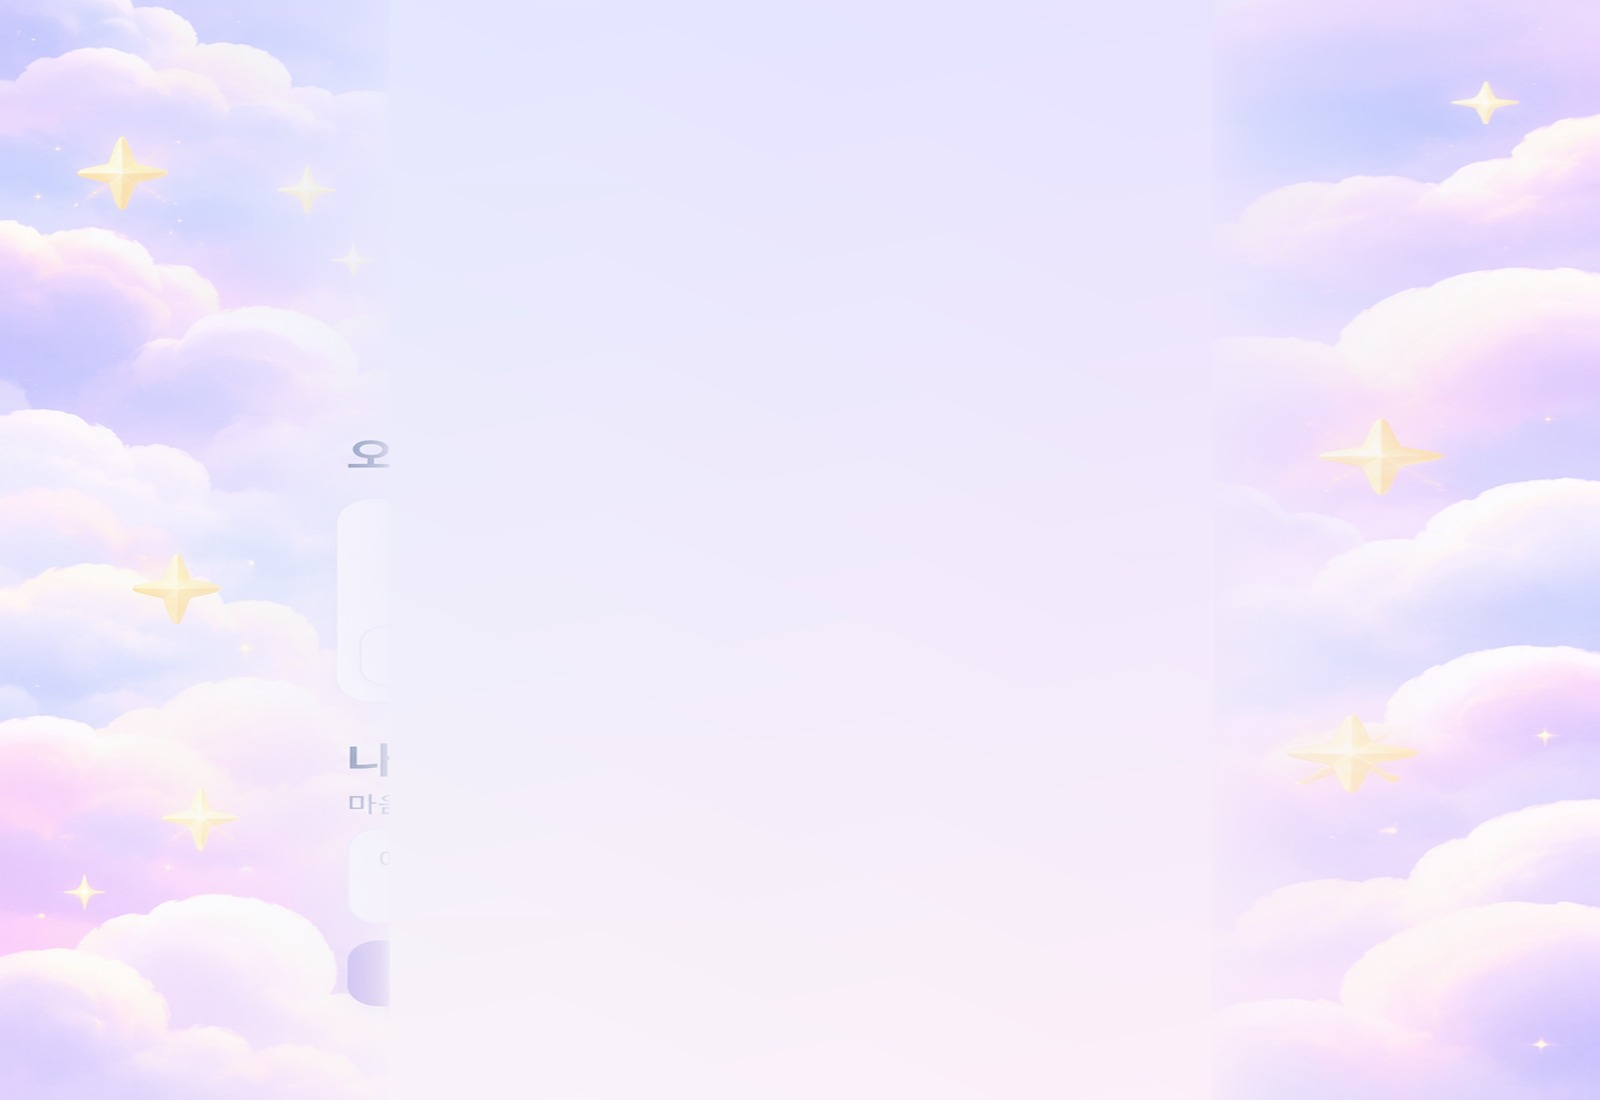
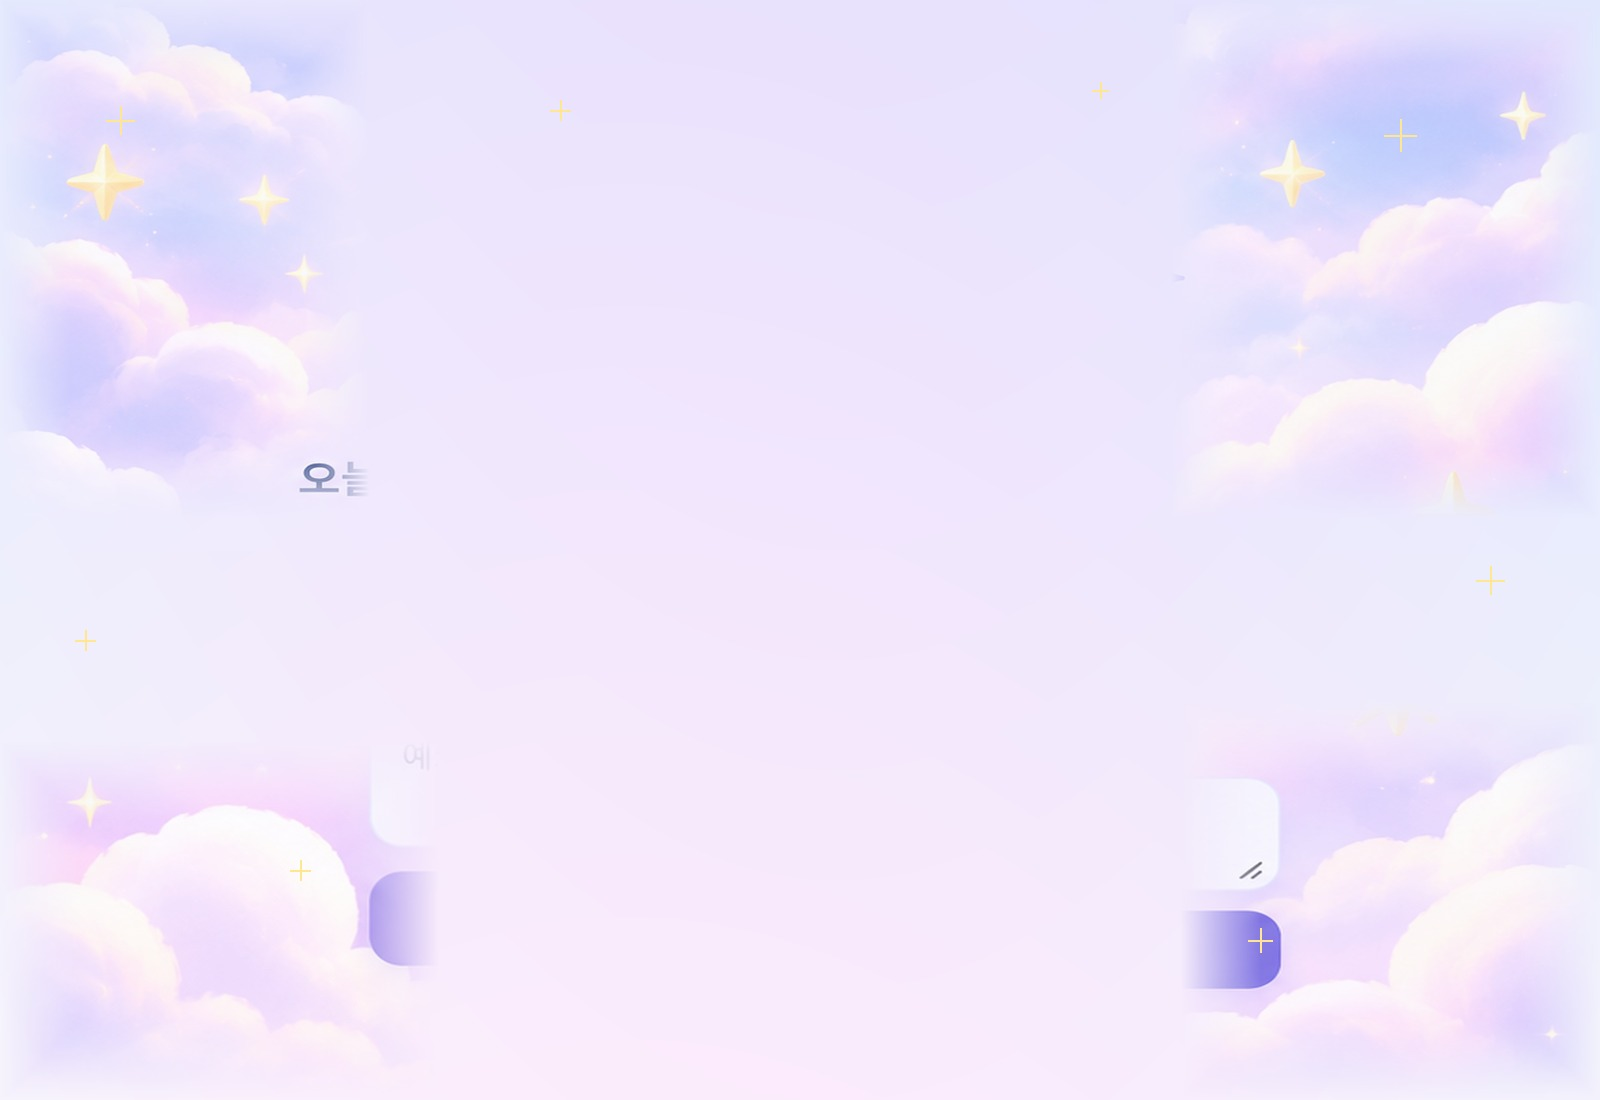
Add files via upload

diff --git a/app.py b/app.py
@@ -60,8 +60,8 @@ header[data-testid="stHeader"] {background:transparent!important;}
 .block-container > div {position:relative;z-index:1;}
 .hero-art {width:100%;max-width:1190px;position:relative;left:auto;transform:none;display:block;margin:0 auto 16px;overflow:hidden;}
 .hero-art img {display:block;width:100%;height:auto;border-radius:0;mask-image:linear-gradient(to bottom,transparent 0%,black 7%,black 88%,transparent 100%);-webkit-mask-image:linear-gradient(to bottom,transparent 0%,black 7%,black 88%,transparent 100%);}
-.hero {display:grid;grid-template-columns:47% 53%;align-items:center;max-width:1100px;margin:12px auto 28px;min-height:270px;}
-.hero-mascot {width:100%;max-width:390px;max-height:270px;object-fit:contain;justify-self:center;}
+.hero {display:grid;grid-template-columns:47% 53%;align-items:center;max-width:1100px;margin:0 auto 18px;min-height:290px;}
+.hero-mascot {width:100%;max-width:440px;max-height:310px;object-fit:contain;justify-self:center;}
 .hero-copy {text-align:left;padding-left:12px;}
 .hero h1 {font-size:clamp(2rem,4vw,3.8rem);color:#202e67;margin:0;font-weight:850;white-space:normal;line-height:1.2;}
 .hero p {color:#65749f;font-size:1.2rem;margin:16px 0 0;}
@@ -195,11 +195,13 @@ with st.sidebar:
             reset()
             st.rerun()
 
-if st.session_state.lang == "한국어" and st.session_state.stage == "start":
-    # The approved illustration is used only for the static hero; all controls below are real Streamlit widgets.
-    st.markdown(f'<div class="hero-art"><img src="{img_uri(BASE / "hero_reference.png")}" alt="망상회로 구름 요정과 제목" /></div>', unsafe_allow_html=True)
-else:
-    st.markdown(f'<div class="hero"><img class="hero-mascot" src="{img_uri(BASE / "cloud_fairy.png")}" alt="Cloud fairy mascot"/><div class="hero-copy"><h1>☁ {tr("망상회로", "Daydream Circuit")}<span class="hero-star"> ✦</span></h1><p>{tr("생각의 씨앗을 심어봐.", "Every journey of thought begins with you.")}</p></div></div>', unsafe_allow_html=True)
+# One transparent mascot, one real title, and one seamless page background.
+st.markdown(
+    f'<div class="hero"><img class="hero-mascot" src="{img_uri(BASE / "cloud_fairy.png")}" alt="Cloud fairy mascot"/>'
+    f'<div class="hero-copy"><h1>☁ {tr("망상회로", "Daydream Circuit")}<span class="hero-star"> ✦</span></h1>'
+    f'<p>{tr("생각의 씨앗을 심어봐.", "Every journey of thought begins with you.")}</p></div></div>',
+    unsafe_allow_html=True,
+)
 
 if st.session_state.stage == "start":
     st.markdown(f"### {tr('오늘은 어떤 생각을 훈련할까?', 'Which kind of thinking will you practice?')}")
